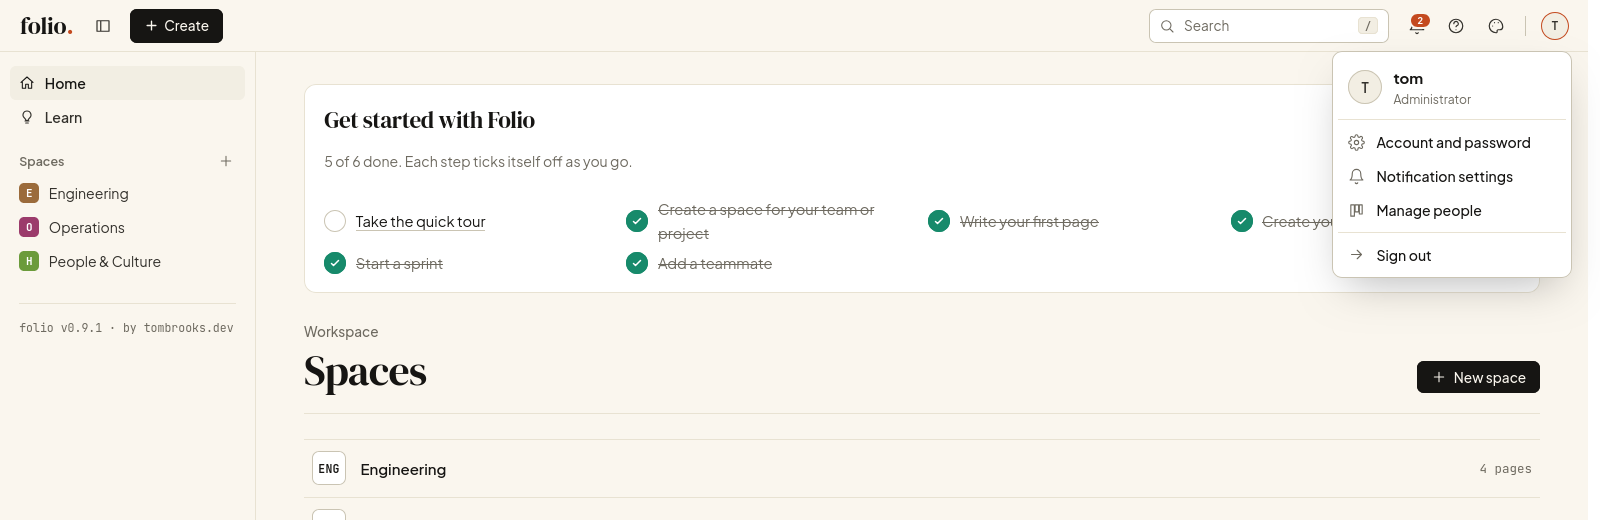
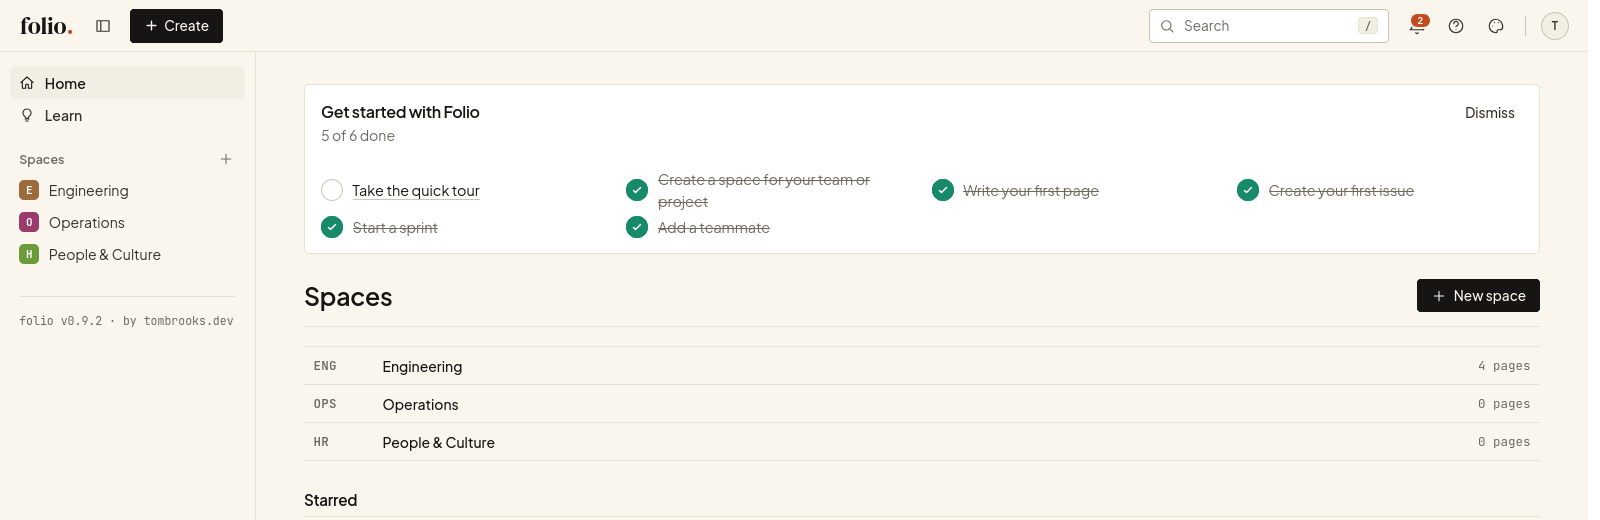
v0.9.2: quieter interface (plain headings, squarer corners, flat lists, calmer onboarding), refreshed screenshots

diff --git a/public/style.css b/public/style.css
@@ -37,7 +37,7 @@
 
 *{box-sizing:border-box}
 html{scroll-behavior:smooth;scroll-padding-top:4.5rem}
-body{margin:0;background:var(--bg);color:var(--fg);font:15px/1.6 var(--sans);-webkit-font-smoothing:antialiased;min-height:100vh}
+body{margin:0;background:var(--bg);color:var(--fg);font:14px/1.5 var(--sans);-webkit-font-smoothing:antialiased;min-height:100vh}
 a{color:inherit;text-decoration-color:var(--line-2);text-decoration-thickness:1px;text-underline-offset:3px;transition:text-decoration-color .15s,color .15s}
 a:hover{text-decoration-color:var(--accent)}
 ::selection{background:var(--accent);color:var(--accent-fg)}
@@ -54,13 +54,13 @@ svg.i{width:16px;height:16px;flex:none;stroke:currentColor;fill:none;stroke-widt
 .brand i{color:var(--accent);font-style:normal}
 .spacer{margin-left:auto}
 .menu-wrap{position:relative;display:flex}
-.cmdk-btn{display:flex;align-items:center;gap:.55rem;width:15rem;height:34px;padding:0 .6rem;margin-right:.35rem;border:1px solid var(--line-2);background:var(--surface);color:var(--mute);border-radius:7px;font:inherit;font-size:.85rem;font-weight:400;cursor:pointer;box-shadow:none;transition:border-color .15s}
+.cmdk-btn{display:flex;align-items:center;gap:.55rem;width:15rem;height:34px;padding:0 .6rem;margin-right:.35rem;border:1px solid var(--line-2);background:var(--surface);color:var(--mute);border-radius:4px;font:inherit;font-size:.85rem;font-weight:400;cursor:pointer;box-shadow:none;transition:border-color .15s}
 .cmdk-btn:hover{border-color:var(--fg-2);color:var(--fg-2);background:var(--surface);transform:none;box-shadow:none}
 .cmdk-btn svg{width:16px;height:16px}.cmdk-btn kbd{margin-left:auto}
 .create-btn{height:34px;padding:0 .8rem;gap:.35rem}
 .create-btn svg{width:15px;height:15px;stroke-width:2.2}
 kbd{font:500 .68rem var(--mono);padding:.05rem .35rem;border:1px solid var(--line);border-radius:4px;color:var(--mute);background:var(--sunken)}
-.icon-btn{display:grid;place-items:center;width:34px;height:34px;padding:0;border-radius:7px;border:0;background:none;color:var(--fg-2);cursor:pointer;box-shadow:none;transition:background .15s,color .15s}
+.icon-btn{display:grid;place-items:center;width:34px;height:34px;padding:0;border-radius:4px;border:0;background:none;color:var(--fg-2);cursor:pointer;box-shadow:none;transition:background .15s,color .15s}
 .icon-btn:hover{background:var(--sunken);color:var(--fg);transform:none;box-shadow:none}
 .top .icon-btn svg{width:18px;height:18px}
 .icon-btn .ico{position:relative;display:grid;place-items:center}
@@ -74,7 +74,7 @@ kbd{font:500 .68rem var(--mono);padding:.05rem .35rem;border:1px solid var(--lin
 @media(max-width:820px){.cmdk-btn{width:34px;padding:0;justify-content:center}.cmdk-btn span,.cmdk-btn kbd{display:none}.create-btn span{display:none}.create-btn{width:34px;padding:0;justify-content:center}.top-sep{display:none}}
 
 /* every dropdown shares one look */
-.menu{position:absolute;right:0;top:calc(100% + 8px);z-index:70;min-width:15rem;background:var(--surface);border:1px solid var(--line-2);border-radius:10px;box-shadow:0 18px 44px -14px rgb(0 0 0/.28);display:none}
+.menu{position:absolute;right:0;top:calc(100% + 8px);z-index:70;min-width:15rem;background:var(--surface);border:1px solid var(--line-2);border-radius:6px;box-shadow:0 18px 44px -14px rgb(0 0 0/.28);display:none}
 .menu.open{display:block;animation:pop .14s var(--ease) both}
 .create-menu{right:auto;left:0;min-width:17rem}
 .create-menu,.help-menu,.user-menu{padding:.3rem}
@@ -142,7 +142,7 @@ h1,h2,h3,h4{margin:0;line-height:1.2;letter-spacing:-.02em}
 .crumbs svg{width:12px;height:12px;opacity:.6}
 
 /* ---------- buttons ---------- */
-button,.btn{font:500 .85rem var(--sans);display:inline-flex;align-items:center;gap:.45rem;padding:.42rem .8rem;border-radius:7px;border:1px solid var(--ink);background:var(--ink);color:var(--ink-fg);cursor:pointer;text-decoration:none;transition:opacity .15s,background .15s,border-color .15s,transform .1s}
+button,.btn{font:500 .85rem var(--sans);display:inline-flex;align-items:center;gap:.45rem;padding:.42rem .8rem;border-radius:4px;border:1px solid var(--ink);background:var(--ink);color:var(--ink-fg);cursor:pointer;text-decoration:none;transition:opacity .15s,background .15s,border-color .15s,transform .1s}
 button:hover,.btn:hover{background:var(--accent);border-color:var(--accent);color:var(--accent-fg)}
 button:active,.btn:active{transform:scale(.98)}
 .btn.ghost,button.ghost{background:var(--surface);color:var(--fg-2);border-color:var(--line-2)}
@@ -154,10 +154,10 @@ button.danger:hover{border-color:var(--danger);color:var(--danger);background:co
 .sm{padding:.3rem .65rem}
 
 /* ---------- forms ---------- */
-input[type=text],input[type=password],input:not([type]),textarea{width:100%;font:inherit;color:var(--fg);background:var(--surface);border:1px solid var(--line-2);border-radius:7px;padding:.5rem .7rem;transition:border-color .15s,box-shadow .15s}
+input[type=text],input[type=password],input:not([type]),textarea{width:100%;font:inherit;color:var(--fg);background:var(--surface);border:1px solid var(--line-2);border-radius:4px;padding:.5rem .7rem;transition:border-color .15s,box-shadow .15s}
 input:focus,textarea:focus{outline:none;border-color:var(--ink);box-shadow:0 0 0 3px var(--sunken)}
 .form{display:grid;gap:.8rem;max-width:22rem}
-.err{color:var(--danger);background:color-mix(in srgb,var(--danger) 8%,transparent);padding:.5rem .7rem;border-radius:7px;font-size:.88rem;margin:0}
+.err{color:var(--danger);background:color-mix(in srgb,var(--danger) 8%,transparent);padding:.5rem .7rem;border-radius:4px;font-size:.88rem;margin:0}
 
 /* ---------- home / lists ---------- */
 .page-head{display:flex;align-items:end;justify-content:space-between;gap:1rem;flex-wrap:wrap;padding-bottom:1.2rem;border-bottom:1px solid var(--line);margin-bottom:1.6rem}
@@ -170,11 +170,11 @@ input:focus,textarea:focus{outline:none;border-color:var(--ink);box-shadow:0 0 0
 .row-item .t{font-weight:550}
 .row-item .s{margin-left:auto;font:.78rem var(--mono);color:var(--mute);text-align:right;white-space:nowrap}
 .row-item>svg{color:var(--mute)}
-.key{display:grid;place-items:center;width:34px;height:34px;border-radius:7px;border:1px solid var(--line-2);background:var(--surface);font:600 .72rem var(--mono);letter-spacing:.02em;flex:none}
+.key{display:grid;place-items:center;width:34px;height:34px;border-radius:4px;border:1px solid var(--line-2);background:var(--surface);font:600 .72rem var(--mono);letter-spacing:.02em;flex:none}
 .dotc{width:8px;height:8px;border-radius:50%;background:hsl(var(--h) 55% 50%);flex:none}
 .new-space{display:flex;gap:.5rem;flex-wrap:wrap;margin-top:.8rem}
 .new-space input{flex:1;min-width:10rem}
-.empty{padding:3.5rem 1rem;text-align:center;border:1px dashed var(--line-2);border-radius:10px;color:var(--mute)}
+.empty{padding:3.5rem 1rem;text-align:center;border:1px dashed var(--line-2);border-radius:6px;color:var(--mute)}
 .empty svg.art{width:84px;height:auto;margin-bottom:.8rem;color:var(--line-2)}
 .empty h3{font:400 1.4rem var(--serif);color:var(--fg);margin-bottom:.3rem}
 .empty p{margin:0 0 1rem}
@@ -200,7 +200,7 @@ body.readable .doc,body.readable .article-head{max-width:46rem}
 .doc img{max-width:100%;border-radius:6px;border:1px solid var(--line)}
 .doc ul,.doc ol{padding-left:1.3rem}.doc li{margin:.25rem 0}.doc li::marker{color:var(--mute)}
 .doc code{font:.82em var(--mono);background:var(--sunken);border:1px solid var(--line);padding:.08em .35em;border-radius:4px;color:var(--fg)}
-.doc pre{position:relative;background:var(--sunken);border:1px solid var(--line);padding:1rem 1.1rem;border-radius:8px;overflow:auto;font-size:.88rem}
+.doc pre{position:relative;background:var(--sunken);border:1px solid var(--line);padding:1rem 1.1rem;border-radius:5px;overflow:auto;font-size:.88rem}
 .doc pre code{background:none;border:0;padding:0;font-size:inherit;line-height:1.65}
 .copy{position:absolute;top:.45rem;right:.45rem;padding:.15rem .5rem;font-size:.72rem;background:var(--surface);color:var(--mute);border-color:var(--line-2);opacity:0}
 .doc pre:hover .copy,.copy:focus-visible{opacity:1}
@@ -221,7 +221,7 @@ mark{background:#fde68a;color:#1c1b19;padding:0 .1em;border-radius:2px}
 /* ---------- editor ---------- */
 .title-input{font:400 clamp(1.9rem,3.6vw,2.6rem)/1.15 var(--serif)!important;letter-spacing:-.01em;border:0!important;border-radius:0!important;background:transparent!important;padding:.3rem 0!important;box-shadow:none!important}
 .title-input::placeholder{color:var(--line-2)}
-.toolbar{display:flex;gap:.15rem;flex-wrap:wrap;align-items:center;padding:.25rem;margin:.6rem 0;background:var(--surface);border:1px solid var(--line);border-radius:8px;position:sticky;top:60px;z-index:5}
+.toolbar{display:flex;gap:.15rem;flex-wrap:wrap;align-items:center;padding:.25rem;margin:.6rem 0;background:var(--surface);border:1px solid var(--line);border-radius:5px;position:sticky;top:60px;z-index:5}
 .toolbar button{padding:.35rem;border:0;background:none;color:var(--fg-2);border-radius:5px}
 .toolbar button:hover{background:var(--sunken);opacity:1}
 .toolbar .sep{width:1px;align-self:stretch;background:var(--line);margin:.25rem .3rem}
@@ -229,14 +229,14 @@ mark{background:#fde68a;color:#1c1b19;padding:0 .1em;border-radius:2px}
 .editor{display:grid;grid-template-columns:1fr 1fr;gap:1rem}
 @media(max-width:1000px){.editor{grid-template-columns:1fr}}
 .editor textarea{min-height:62vh;font:.85rem/1.7 var(--mono);resize:vertical}
-.preview{border:1px solid var(--line);border-radius:8px;padding:0 1.3rem;overflow:auto;max-height:70vh;background:var(--surface)}
+.preview{border:1px solid var(--line);border-radius:5px;padding:0 1.3rem;overflow:auto;max-height:70vh;background:var(--surface)}
 .dot{display:inline-block;width:6px;height:6px;border-radius:50%;background:var(--ok);margin-right:.45rem}
 .dot.dirty{background:var(--accent)}
 
 /* ---------- command palette ---------- */
 .cmdk{position:fixed;inset:0;z-index:100;display:none;place-items:start center;padding-top:13vh;background:rgb(20 18 15/.4)}
 .cmdk.open{display:grid;animation:in .12s ease both}
-.cmdk-box{width:min(36rem,92vw);background:var(--surface);border:1px solid var(--line-2);border-radius:10px;box-shadow:0 20px 50px -12px rgb(0 0 0/.3);overflow:hidden;animation:pop .16s var(--ease) both}
+.cmdk-box{width:min(36rem,92vw);background:var(--surface);border:1px solid var(--line-2);border-radius:6px;box-shadow:0 20px 50px -12px rgb(0 0 0/.3);overflow:hidden;animation:pop .16s var(--ease) both}
 .cmdk-box input{border:0;border-bottom:1px solid var(--line);border-radius:0;padding:.95rem 1.1rem;font-size:1rem;box-shadow:none!important}
 .cmdk-list{max-height:50vh;overflow:auto;padding:.35rem}
 .cmdk-list a{display:block;padding:.5rem .7rem;border-radius:6px;text-decoration:none;font-weight:550}
@@ -369,9 +369,9 @@ select{font:inherit;font-size:.85rem;color:var(--fg);background:var(--surface);b
 
 /* ---------- reports ---------- */
 .stats{display:grid;grid-template-columns:repeat(auto-fit,minmax(8rem,1fr));gap:.8rem;margin:1.2rem 0}
-.stat{padding:.9rem 1rem;border:1px solid var(--line);border-radius:10px;background:var(--surface)}
+.stat{padding:.9rem 1rem;border:1px solid var(--line);border-radius:6px;background:var(--surface)}
 .stat b{display:block;font:400 2rem/1.1 var(--serif)}.stat span{font:500 .82rem var(--sans);color:var(--mute)}
-.chart-card{padding:1rem;border:1px solid var(--line);border-radius:12px;background:var(--surface)}
+.chart-card{padding:1rem;border:1px solid var(--line);border-radius:6px;background:var(--surface)}
 .chart{width:100%;height:auto;display:block}
 .chart .grid{stroke:var(--line);stroke-width:1}
 .chart .axis{fill:var(--mute);font:10px var(--mono)}
@@ -391,7 +391,7 @@ select{font:inherit;font-size:.85rem;color:var(--fg);background:var(--surface);b
 .theme-menu h4{font:600 .78rem var(--sans);color:var(--mute);margin:.1rem .2rem .5rem}
 .theme-menu h4:not(:first-child){margin-top:.9rem}
 .theme-grid{display:grid;grid-template-columns:1fr 1fr;gap:.45rem}
-.theme-opt{display:flex;align-items:center;gap:.55rem;padding:.4rem .5rem;border:1px solid var(--line);border-radius:8px;background:var(--bg);color:var(--fg);font:500 .8rem var(--sans);text-align:left;box-shadow:none}
+.theme-opt{display:flex;align-items:center;gap:.55rem;padding:.4rem .5rem;border:1px solid var(--line);border-radius:5px;background:var(--bg);color:var(--fg);font:500 .8rem var(--sans);text-align:left;box-shadow:none}
 .theme-opt:hover{border-color:var(--accent);background:var(--bg);color:var(--fg)}
 .theme-opt[aria-checked=true]{border-color:var(--accent);box-shadow:0 0 0 1px var(--accent)}
 .swatch{display:flex;width:34px;height:24px;flex:none;border-radius:5px;overflow:hidden;border:1px solid rgb(128 128 128/.35)}
@@ -425,7 +425,7 @@ select{font:inherit;font-size:.85rem;color:var(--fg);background:var(--surface);b
 button.epic-chip{cursor:pointer}button.epic-chip:hover{background:color-mix(in srgb,hsl(var(--h) 60% 50%) 32%,transparent);color:light-dark(hsl(var(--h) 60% 28%),hsl(var(--h) 75% 78%));transform:none;box-shadow:none}
 button.epic-chip[aria-pressed=true]{outline:2px solid hsl(var(--h) 60% 50%)}
 .epic-chip.big{font-size:1.15rem;padding:.2rem .7rem}
-.label-chip{display:inline-flex;padding:.1rem .45rem;border-radius:99px;font:500 .68rem var(--sans);background:var(--surface);border:1px solid var(--line-2);color:var(--fg-2)}
+.label-chip{display:inline-flex;padding:.1rem .45rem;border-radius:3px;font:500 .68rem var(--sans);background:var(--surface);border:1px solid var(--line-2);color:var(--fg-2)}
 .ic-tags{display:flex;flex-wrap:wrap;gap:.3rem}
 .issue-row .epic-chip,.issue-row .label-chip{flex:none}
 .epics-panel{margin:0 0 1rem;border:1px solid var(--line);border-radius:3px;background:var(--surface)}
@@ -451,7 +451,7 @@ button.epic-chip[aria-pressed=true]{outline:2px solid hsl(var(--h) 60% 50%)}
 .thumb{width:44px;height:44px;border-radius:4px;overflow:hidden;border:1px solid var(--line);display:block;flex:none}
 .thumb img{width:100%;height:100%;object-fit:cover;box-shadow:none;border:0;border-radius:0}
 .file-ico{display:grid;place-items:center;width:44px;height:44px;border-radius:4px;background:var(--sunken);color:var(--mute);flex:none}
-.dropzone{display:flex;align-items:center;justify-content:center;gap:.6rem;padding:1.1rem;border:1.5px dashed var(--line-2);border-radius:8px;color:var(--mute);cursor:pointer;transition:border-color .15s,background .15s}
+.dropzone{display:flex;align-items:center;justify-content:center;gap:.6rem;padding:1.1rem;border:1.5px dashed var(--line-2);border-radius:5px;color:var(--mute);cursor:pointer;transition:border-color .15s,background .15s}
 .dropzone:hover,.dropzone.over{border-color:var(--accent);background:var(--accent-soft);color:var(--fg)}
 .dropzone.busy{opacity:.5;pointer-events:none}
 .parent-pick{display:flex;align-items:center;gap:.4rem;font:500 .75rem var(--mono);color:var(--mute);padding:0 .3rem}
@@ -485,7 +485,7 @@ button.epic-chip[aria-pressed=true]{outline:2px solid hsl(var(--h) 60% 50%)}
 .empty code{font:.85em var(--mono)}
 
 /* ---------- create menu, modals, toasts ---------- */
-dialog.modal{width:min(36rem,94vw);padding:0;border:1px solid var(--line-2);border-radius:12px;background:var(--surface);color:var(--fg);box-shadow:0 30px 80px -20px rgb(0 0 0/.5)}
+dialog.modal{width:min(36rem,94vw);padding:0;border:1px solid var(--line-2);border-radius:6px;background:var(--surface);color:var(--fg);box-shadow:0 30px 80px -20px rgb(0 0 0/.5)}
 dialog.modal::backdrop{background:rgb(20 18 15/.5)}
 dialog.modal[open]{animation:pop .18s var(--ease) both}
 .modal-head{display:flex;align-items:center;justify-content:space-between;margin:0;padding:.9rem 1.1rem;border-bottom:1px solid var(--line)}
@@ -500,7 +500,7 @@ dialog.modal[open]{animation:pop .18s var(--ease) both}
 .check input{width:auto}
 .keys{display:grid;grid-template-columns:auto 1fr;gap:.5rem 1.2rem;margin:0}.keys dt{display:flex;gap:.3rem;align-items:center;white-space:nowrap}.keys dd{margin:0;color:var(--fg-2)}
 .toasts{position:fixed;left:1.2rem;bottom:1.2rem;z-index:200;display:grid;gap:.5rem}
-.toast{display:flex;align-items:center;gap:1rem;padding:.7rem 1rem;border-radius:8px;background:var(--ink);color:var(--ink-fg);box-shadow:0 12px 30px -10px rgb(0 0 0/.5);animation:pop .2s var(--ease) both;font-size:.9rem}
+.toast{display:flex;align-items:center;gap:1rem;padding:.7rem 1rem;border-radius:5px;background:var(--ink);color:var(--ink-fg);box-shadow:0 12px 30px -10px rgb(0 0 0/.5);animation:pop .2s var(--ease) both;font-size:.9rem}
 .toast a{color:var(--ink-fg);font-weight:700;text-decoration:underline}
 .toast.out{opacity:0;transform:translateY(8px);transition:all .35s}
 
@@ -528,7 +528,7 @@ dialog.modal[open]{animation:pop .18s var(--ease) both}
 
 /* ---------- templates, labels, stars, diff, drafts ---------- */
 .template-grid{display:grid;grid-template-columns:repeat(auto-fill,minmax(15rem,1fr));gap:.8rem;margin-top:1.2rem}
-.template-card{display:grid;gap:.35rem;padding:1rem;border:1px solid var(--line);border-radius:8px;background:var(--surface);text-decoration:none;color:var(--fg);transition:border-color .15s,transform .2s var(--ease),box-shadow .2s}
+.template-card{display:grid;gap:.35rem;padding:1rem;border:1px solid var(--line);border-radius:5px;background:var(--surface);text-decoration:none;color:var(--fg);transition:border-color .15s,transform .2s var(--ease),box-shadow .2s}
 .template-card:hover{border-color:var(--accent);transform:translateY(-2px);box-shadow:0 10px 24px -14px rgb(0 0 0/.35)}
 .template-card svg{width:22px;height:22px;color:var(--accent);margin-bottom:.3rem}
 .page-labels{display:flex;gap:.35rem;flex-wrap:wrap;margin:.2rem 0 .7rem}
@@ -566,14 +566,14 @@ table.diff tr.fold td{background:var(--sunken);color:var(--mute);text-align:cent
 .note.unread{background:color-mix(in srgb,var(--accent) 7%,transparent);color:var(--fg)}
 .note.unread::before{content:"";position:absolute;left:.3rem;top:50%;width:6px;height:6px;margin-top:-3px;border-radius:50%;background:var(--accent)}
 .note-body{display:grid;gap:.1rem;min-width:0}.note-text{font-size:.88rem;line-height:1.4;overflow-wrap:anywhere}.note-body .muted{font-size:.74rem}
-.note-page{border:1px solid var(--line);border-radius:10px;overflow:hidden;background:var(--surface);max-width:48rem}
+.note-page{border:1px solid var(--line);border-radius:6px;overflow:hidden;background:var(--surface);max-width:48rem}
 .note-page .empty{border:0}
 .prefs{display:grid;gap:.4rem;max-width:36rem;margin:1rem 0}
 button.on{color:var(--accent)!important;border-color:var(--accent)!important}
 .mention{padding:.02rem .3rem;border-radius:4px;background:var(--accent-soft);color:var(--accent);font-weight:600}
-.hint{display:flex;align-items:flex-start;gap:.7rem;margin:0 0 1rem;padding:.7rem .9rem;border-radius:8px;background:var(--accent-soft);border:1px solid color-mix(in srgb,var(--accent) 35%,transparent);font-size:.9rem;color:var(--fg-2)}
+.hint{display:flex;align-items:flex-start;gap:.7rem;margin:0 0 1rem;padding:.7rem .9rem;border-radius:5px;background:var(--accent-soft);border:1px solid color-mix(in srgb,var(--accent) 35%,transparent);font-size:.9rem;color:var(--fg-2)}
 .hint>svg{color:var(--accent);margin-top:.15rem}.hint>div{flex:1}.hint .icon-btn{width:24px;height:24px;margin:-.1rem -.2rem 0 0}.hint .icon-btn svg{transform:rotate(45deg)}
-.checklist{margin:0 0 1.6rem;padding:1.1rem 1.2rem;border:1px solid var(--line);border-radius:12px;background:var(--surface)}
+.checklist{margin:0 0 1.6rem;padding:1.1rem 1.2rem;border:1px solid var(--line);border-radius:6px;background:var(--surface)}
 .checklist header{display:flex;justify-content:space-between;gap:1rem;align-items:flex-start}
 .checklist h2{font:400 1.45rem var(--serif)}.checklist .bar{margin:.7rem 0}
 .checklist ul{list-style:none;margin:0;padding:0;display:grid;grid-template-columns:repeat(auto-fill,minmax(17rem,1fr));gap:.4rem .8rem}
@@ -583,15 +583,15 @@ button.on{color:var(--accent)!important;border-color:var(--accent)!important}
 .tick.sm{width:16px;height:16px;min-width:16px;aspect-ratio:1}.tick.sm svg{width:10px;height:10px}
 
 /* ---------- learn ---------- */
-.continue-card{display:grid;grid-template-columns:1fr auto;gap:.1rem .8rem;align-items:center;padding:1.1rem 1.3rem;border-radius:12px;background:var(--ink);color:var(--ink-fg);text-decoration:none;margin-bottom:1.4rem;transition:transform .2s var(--ease)}
+.continue-card{display:grid;grid-template-columns:1fr auto;gap:.1rem .8rem;align-items:center;padding:1.1rem 1.3rem;border-radius:6px;background:var(--ink);color:var(--ink-fg);text-decoration:none;margin-bottom:1.4rem;transition:transform .2s var(--ease)}
 .continue-card:hover{transform:translateY(-2px)}
 .continue-card .eyebrow{grid-column:1;color:var(--accent)}.continue-card b{font:400 1.5rem var(--serif);grid-column:1}.continue-card .muted{grid-column:1;color:inherit;opacity:.7}.continue-card>svg{grid-column:2;grid-row:1/4;width:22px;height:22px}
 .continue-card.done{display:block}
 .course-grid{display:grid;grid-template-columns:repeat(auto-fill,minmax(17rem,1fr));gap:.9rem}
-.course-card{display:grid;gap:.4rem;align-content:start;padding:1.1rem;border:1px solid var(--line);border-radius:10px;background:var(--surface);text-decoration:none;color:var(--fg);transition:border-color .15s,transform .2s var(--ease)}
+.course-card{display:grid;gap:.4rem;align-content:start;padding:1.1rem;border:1px solid var(--line);border-radius:6px;background:var(--surface);text-decoration:none;color:var(--fg);transition:border-color .15s,transform .2s var(--ease)}
 .course-card:hover{border-color:var(--accent);transform:translateY(-2px)}.course-card>svg{width:22px;height:22px;color:var(--accent)}.course-card b{font:400 1.25rem var(--serif)}
 .course-card .small{font-size:.76rem}.course-card .bar{margin:.3rem 0 0;flex:none;width:100%}
-.practice{display:flex;justify-content:space-between;gap:1.5rem;align-items:center;flex-wrap:wrap;margin-top:1.6rem;padding:1.2rem;border:1px dashed var(--line-2);border-radius:12px}
+.practice{display:flex;justify-content:space-between;gap:1.5rem;align-items:center;flex-wrap:wrap;margin-top:1.6rem;padding:1.2rem;border:1px dashed var(--line-2);border-radius:6px}
 .practice h2{font:400 1.4rem var(--serif)}.practice p{margin:.2rem 0 0;max-width:34rem}
 .bar.wide{flex:none;width:100%;max-width:30rem;margin:.8rem 0 1.2rem}
 .prog{margin-left:auto;font-size:.74rem}
@@ -604,14 +604,14 @@ button.on{color:var(--accent)!important;border-color:var(--accent)!important}
 /* ---------- tour ---------- */
 .tour{position:fixed;inset:0;z-index:300}
 .tour-block{position:absolute;inset:0}
-.tour-spot{position:fixed;border-radius:8px;box-shadow:0 0 0 9999px rgb(14 12 9/.62),0 0 0 2px var(--accent);transition:all .3s var(--ease);pointer-events:none}
-.tour-pop{position:fixed;width:min(340px,calc(100vw - 24px));padding:1.1rem 1.2rem;border-radius:12px;background:var(--surface);color:var(--fg);border:1px solid var(--line-2);box-shadow:0 24px 60px -12px rgb(0 0 0/.5);animation:pop .22s var(--ease) both}
+.tour-spot{position:fixed;border-radius:5px;box-shadow:0 0 0 9999px rgb(14 12 9/.62),0 0 0 2px var(--accent);transition:all .3s var(--ease);pointer-events:none}
+.tour-pop{position:fixed;width:min(340px,calc(100vw - 24px));padding:1.1rem 1.2rem;border-radius:6px;background:var(--surface);color:var(--fg);border:1px solid var(--line-2);box-shadow:0 24px 60px -12px rgb(0 0 0/.5);animation:pop .22s var(--ease) both}
 .tour-pop h3{font:400 1.45rem var(--serif);margin-bottom:.3rem}.tour-pop p{margin:0 0 1rem;color:var(--fg-2);font-size:.92rem;line-height:1.55}
 .tour-foot{display:flex;align-items:center;gap:.5rem}
 .tour-dots{display:flex;gap:.25rem}.tour-dots span{width:6px;height:6px;border-radius:50%;background:var(--line-2)}.tour-dots span.on{background:var(--accent)}
 
 /* ---------- security UI ---------- */
-.warn-note,.ok-note{margin:0;padding:.55rem .75rem;border-radius:7px;font-size:.88rem}
+.warn-note,.ok-note{margin:0;padding:.55rem .75rem;border-radius:4px;font-size:.88rem}
 .warn-note{background:light-dark(#fff7e6,#33270f);border:1px solid light-dark(#ffe3a8,#5a4318);color:var(--fg-2)}
 .ok-note{background:color-mix(in srgb,var(--ok) 12%,transparent);color:var(--ok);margin-bottom:1rem}
 .user-row{cursor:default}.user-row:hover{padding-left:.5rem}.user-row select{margin-left:auto}
@@ -625,10 +625,97 @@ button.on{color:var(--accent)!important;border-color:var(--accent)!important}
 .switch input:checked+i{background:var(--accent)}
 .switch input:checked+i::after{transform:translateX(16px)}
 .switch input:focus-visible+i{outline:2px solid var(--accent);outline-offset:2px}
-.pref{display:flex;justify-content:space-between;align-items:center;gap:1.2rem;padding:.8rem 1rem;border:1px solid var(--line);border-radius:8px;background:var(--surface);cursor:pointer}
+.pref{display:flex;justify-content:space-between;align-items:center;gap:1.2rem;padding:.8rem 1rem;border:1px solid var(--line);border-radius:5px;background:var(--surface);cursor:pointer}
 .pref:hover{border-color:var(--line-2)}
 .pref-text{display:grid;gap:.1rem}.pref .muted{font-size:.84rem}
 button.ghost[aria-pressed=true]{border-color:var(--accent);color:var(--accent);background:var(--accent-soft)}
 button.ghost[aria-pressed=true]:hover{background:var(--accent-soft)}
 .check input{width:16px;height:16px;accent-color:var(--accent)}
 .sr-only{position:absolute;width:1px;height:1px;margin:-1px;padding:0;overflow:hidden;clip:rect(0 0 0 0);white-space:nowrap;border:0}
+
+/* =====================================================================
+   v0.9.2 refinements: a quieter, more ordinary tool.
+   Sans-serif headings in the app (serif stays for documents and the wordmark),
+   square-ish corners, no lifting cards, rows that only change colour on hover.
+   ===================================================================== */
+.page-title{font:600 1.55rem/1.25 var(--sans);letter-spacing:-.01em;margin:.2rem 0 .6rem}
+.article-head .page-title{font:400 clamp(2rem,3.4vw,2.7rem)/1.1 var(--serif);letter-spacing:-.015em}
+.eyebrow{font:400 .82rem var(--sans);color:var(--mute)}
+.page-head .eyebrow{display:none}
+.page-head{padding-bottom:.9rem;margin-bottom:1.2rem}
+.meta-line{font-size:.82rem;color:var(--mute);margin:0 0 .3rem}
+.section-head{margin:1.8rem 0 .4rem}.section-head h2{font:600 .95rem var(--sans)}
+.stat b{font:600 1.5rem/1.2 var(--sans)}
+.empty{padding:2rem 1rem;border:0;border-top:1px solid var(--line);border-radius:0;background:none}
+.empty h3{font:600 1rem var(--sans)}
+.empty svg.art{display:none}
+.modal-head h2{font:600 1.05rem var(--sans)}
+.tour-pop h3{font:600 1.05rem var(--sans)}
+.auth-form h1{font:600 1.5rem var(--sans);letter-spacing:-.01em}
+.auth-art blockquote{font:400 1.25rem/1.4 var(--sans);max-width:22ch}
+.auth-art blockquote em{color:inherit;font-style:normal;text-decoration:underline;text-decoration-color:var(--accent);text-underline-offset:4px}
+.sprint-block h2{font:600 .95rem var(--sans)}
+.doc h1{font-size:1.9rem}.doc h2{font-size:1.45rem}.doc h3{font-size:1.15rem}
+
+/* lists: plain rows, colour change on hover, nothing moves */
+.list{border-top:1px solid var(--line)}
+.row-item{padding:.5rem .6rem;animation:none;transition:background .1s}
+.row-item:hover{padding-left:.6rem;background:var(--sunken)}
+.row-item .t{font-weight:500}
+.key{display:inline-block;width:3.4rem;height:auto;border:0;border-radius:0;background:none;font:600 .78rem var(--mono);color:var(--mute);text-align:left}
+.space-card,.template-card,.course-card,.epic-card{box-shadow:none}
+.template-card:hover,.course-card:hover,.continue-card:hover{transform:none;box-shadow:none}
+.template-card{border-radius:5px;padding:.9rem 1rem}.template-card svg{width:18px;height:18px}
+.templates-note{margin:.2rem 0 0}
+
+/* learn: a list of courses rather than a grid of tiles */
+.course-list{border-top:1px solid var(--line)}
+.course-row{display:grid;grid-template-columns:1fr auto;gap:.1rem 1.5rem;align-items:center;padding:.7rem .6rem;border-bottom:1px solid var(--line);text-decoration:none;color:var(--fg);transition:background .1s}
+.course-row:hover{background:var(--sunken)}
+.course-row b{font-weight:600}.course-row .muted{grid-column:1}
+.course-row .prog-text{grid-column:2;grid-row:1/3;font:500 .8rem var(--mono);color:var(--mute);text-align:right}
+.course-row .prog-text.done{color:var(--ok)}
+.continue-card{display:block;padding:.8rem 1rem;margin:0 0 1.2rem;border:1px solid var(--line);border-left:3px solid var(--accent);border-radius:4px;background:var(--surface);color:var(--fg);transition:background .1s}
+.continue-card:hover{background:var(--sunken)}
+.continue-card .eyebrow{display:block;color:var(--accent);font-weight:600;font-size:.78rem}
+.continue-card b{display:block;font:600 1.05rem var(--sans);margin:.1rem 0}
+.continue-card .muted{color:var(--mute);opacity:1}
+.continue-card>svg{display:none}
+.continue-card.done{border-left-color:var(--ok)}
+.practice{margin-top:1.8rem;padding:1rem 0 0;border:0;border-top:1px solid var(--line);border-radius:0}
+.practice h2{font:600 .95rem var(--sans)}
+
+/* getting-started checklist: a plain box */
+.checklist{padding:.9rem 1rem;border-radius:5px;margin-bottom:1.4rem}
+.checklist h2{font:600 1rem var(--sans)}
+.checklist ul{gap:.3rem 1.2rem}
+.checklist li{font-size:.9rem}
+
+/* panels, hints, callouts: flatter */
+.hint{border-radius:4px;padding:.55rem .8rem;font-size:.88rem}
+.doc blockquote.panel{border-radius:4px;padding:.7rem 1rem}
+.epics-panel,.attachments .dropzone,.details,.chart-card,.stat{border-radius:5px}
+.dropzone{border-radius:5px}
+
+/* controls */
+button,.btn{border-radius:4px}
+.sm{padding:.28rem .6rem}
+input[type=text],input[type=password],input:not([type]),textarea,select{border-radius:4px}
+.menu{border-radius:6px;box-shadow:0 10px 30px -12px rgb(0 0 0/.3)}
+.cmdk-box{border-radius:6px}
+.toast{border-radius:4px}
+.tab{border-radius:0}
+.avatar-btn:hover{background:var(--sunken)}
+
+/* motion: only what helps (menus and dialogs); no entrance choreography */
+main{animation:none}
+.doc>*{animation:none}
+.side{animation:none}
+.toc{animation:none}
+.article-head .meta{font:400 .82rem var(--sans);color:var(--mute);gap:.3rem 1rem}
+.article-head .meta .chip,.article-head .meta a.chip{display:inline;background:none;padding:0;border-radius:0;font:inherit;text-transform:none;letter-spacing:0;color:var(--mute)}
+.article-head .meta a.chip{text-decoration:underline;text-decoration-color:var(--line-2);text-underline-offset:3px}
+.article-head .meta a.chip:hover{color:var(--accent)}
+.hint{background:var(--sunken);border-color:var(--line)}
+.checklist .muted{margin:.15rem 0 .7rem}
+.checklist header{align-items:baseline}

diff --git a/src/learn.js b/src/learn.js
@@ -44,7 +44,7 @@ export function checklistCard(db, user) {
   const steps = checklist(db, user);
   const done = steps.filter((s) => s.done).length;
   if (done === steps.length) return '';
-  return `<section class="checklist" id="checklist"><header><div><h2>Get started with Folio</h2><p class="muted">${done} of ${steps.length} done. Each step ticks itself off as you go.</p></div>
+  return `<section class="checklist" id="checklist"><header><div><h2>Get started with Folio</h2><p class="muted">${done} of ${steps.length} done</p></div>
     <button type="button" class="link-btn" data-flag="checklist-dismissed" data-remove="#checklist">Dismiss</button></header>
     <div class="bar"><span class="fill w${Math.round((done / steps.length) * 20) * 5}"></span></div>
     <ul>${steps.map((s) => `<li class="${s.done ? 'done' : ''}"><span class="tick">${s.done ? icon('check') : ''}</span>${s.done ? `<span>${esc(s.title)}</span>` : `<a href="${s.href}">${esc(s.title)}</a>`}</li>`).join('')}</ul></section>`;
@@ -111,12 +111,12 @@ export function mountLearn(app, { db, page }) {
     render(res, req, {
       title: 'Learn',
       body: `<div class="page-head"><div><span class="eyebrow">Training</span><h1 class="page-title">Learn Folio</h1>
-          <p class="muted">Short lessons, practice space included. ${lessonDone} of ${lessonTotal} lessons complete.</p></div>
+          <p class="muted">${lessonDone} of ${lessonTotal} lessons complete</p></div>
           <div class="actions"><button type="button" class="ghost" data-tour-start>${icon('play')}Replay the tour</button><a class="btn ghost" href="/changelog">What's new</a></div></div>
         ${nextLesson ? `<a class="continue-card" href="/learn/${next.c.id}/${nextLesson.id}"><span class="eyebrow">${lessonDone ? 'Continue where you left off' : 'Start here'}</span><b>${esc(nextLesson.title)}</b><span class="muted">${esc(next.c.title)} · ${nextLesson.minutes} min</span>${icon('arrow')}</a>` : '<div class="continue-card done"><b>You have finished every lesson.</b><span class="muted">Nicely done. Come back whenever you need a refresher.</span></div>'}
-        <div class="course-grid">${all.map(({ c, p }) => `<a class="course-card" href="/learn/${c.id}">${icon(c.icon)}<b>${esc(c.title)}</b><span class="muted">${esc(c.summary)}</span>
-          <div class="bar"><span class="fill w${Math.round((p.done / p.total) * 20) * 5}"></span></div><span class="muted small">${p.done} of ${p.total} · ${esc(c.audience)}</span></a>`).join('')}</div>
-        <section class="practice"><div><h2>Practice space</h2><p class="muted">A safe space with sample pages, an epic and a running sprint. Click, drag and break things. It never touches your real work, and you can remove it any time.</p></div>
+        <div class="course-list">${all.map(({ c, p }) => `<a class="course-row" href="/learn/${c.id}"><b>${esc(c.title)}</b><span class="muted">${esc(c.summary)}</span>
+          <span class="prog-text${p.done === p.total ? ' done' : ''}">${p.done} / ${p.total}</span></a>`).join('')}</div>
+        <section class="practice"><div><h2>Practice space</h2><p class="muted">A separate space with sample pages, epics and a running sprint to try things in. It never touches your real work, and you can remove it any time.</p></div>
           <div class="actions">${sandbox
             ? `<a class="btn" href="/s/PRACTICE/board">Open the practice space</a><form method="post" action="/learn/sandbox/delete" data-confirm="Delete the practice space and everything in it?"><button class="danger">Remove it</button></form>`
             : `<form method="post" action="/learn/sandbox"><button>${icon('plus')}Create practice space</button></form>`}</div></section>`,
@@ -148,7 +148,7 @@ export function mountLearn(app, { db, page }) {
     render(res, req, {
       title: l.title, course: c.id, lesson: l.id,
       body: `<nav class="crumbs"><a href="/learn">Learn</a>${icon('chevron')}<a href="/learn/${c.id}">${esc(c.title)}</a>${icon('chevron')}<span>${esc(l.title)}</span></nav>
-        <span class="eyebrow">Lesson ${idx + 1} of ${c.lessons.length} · ${l.minutes} min</span><h1 class="page-title">${esc(l.title)}</h1>
+        <h1 class="page-title">${esc(l.title)}</h1><p class="meta-line">Lesson ${idx + 1} of ${c.lessons.length} · ${l.minutes} min</p>
         <article class="doc lesson">${renderMarkdown(lessonBody(c.id, l.id))}</article>
         <div class="lesson-foot">
           ${prev ? `<a class="btn ghost" href="/learn/${c.id}/${prev.id}">Back</a>` : '<span></span>'}

diff --git a/CHANGELOG.md b/CHANGELOG.md
@@ -6,6 +6,20 @@ All notable changes to Folio are recorded here. The format follows [Keep a Chang
 
 Nothing yet.
 
+## [0.9.2] - 2026-10-12
+
+A quieter, more ordinary-looking interface.
+
+### Changed
+- **Headings in the app are plain sans-serif.** The serif face stays for the wordmark and for the pages you write, so documents still read like documents while screens like Spaces, Learn and Settings look like a tool.
+- **Squarer corners and flatter surfaces**: smaller radii on buttons, inputs, menus, cards and callouts; tags are rectangular instead of pills; no lifting cards or sliding rows; rows only change colour on hover.
+- **Plain lists instead of tiles**: the Spaces list, the Learn courses and the space keys are simple rows, and the page-level "eyebrow" captions above titles are gone.
+- **Denser type**: a 14 px base and smaller page titles.
+- **Calmer onboarding**: the getting-started checklist is a plain box, the "continue learning" block is a quiet row with an accent edge, tips are neutral grey, and the empty-state illustrations are removed.
+- **No entrance animations** on pages and articles; only menus and dialogs animate.
+- Page metadata on documents (updated, author, comments) is ordinary small text instead of capitalised labels.
+- Shorter, plainer wording on the Learn and onboarding screens.
+
 ## [0.9.1] - 2026-10-12
 
 A tidier, calmer interface.
@@ -235,7 +249,8 @@ First release: a self-hosted wiki.
 - Single-admin setup, scrypt password hashing, hashed session tokens, login throttling, CSRF origin checks and a strict Content Security Policy.
 - Docker image and Compose file; data stored in one SQLite file.
 
-[Unreleased]: https://github.com/tombrooksdev/Folio/compare/v0.9.1...HEAD
+[Unreleased]: https://github.com/tombrooksdev/Folio/compare/v0.9.2...HEAD
+[0.9.2]: https://github.com/tombrooksdev/Folio/compare/v0.9.1...v0.9.2
 [0.9.1]: https://github.com/tombrooksdev/Folio/compare/v0.9.0...v0.9.1
 [0.9.0]: https://github.com/tombrooksdev/Folio/compare/v0.8.1...v0.9.0
 [0.8.1]: https://github.com/tombrooksdev/Folio/compare/v0.8.0...v0.8.1
